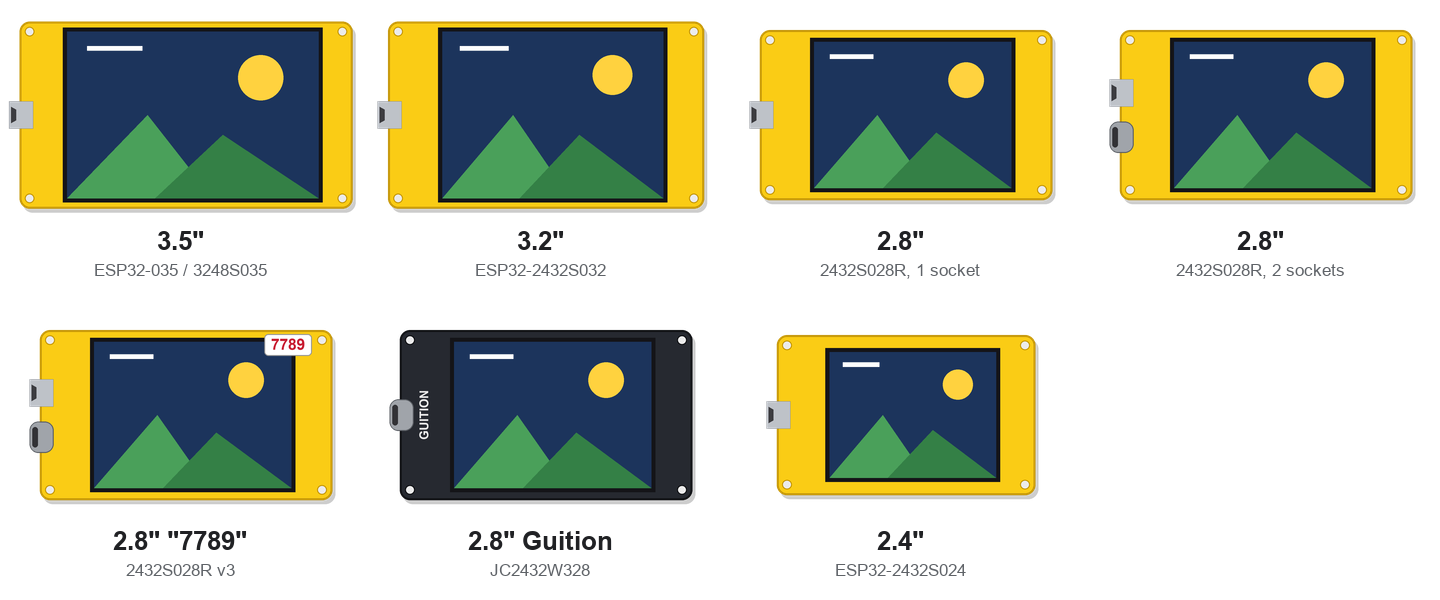
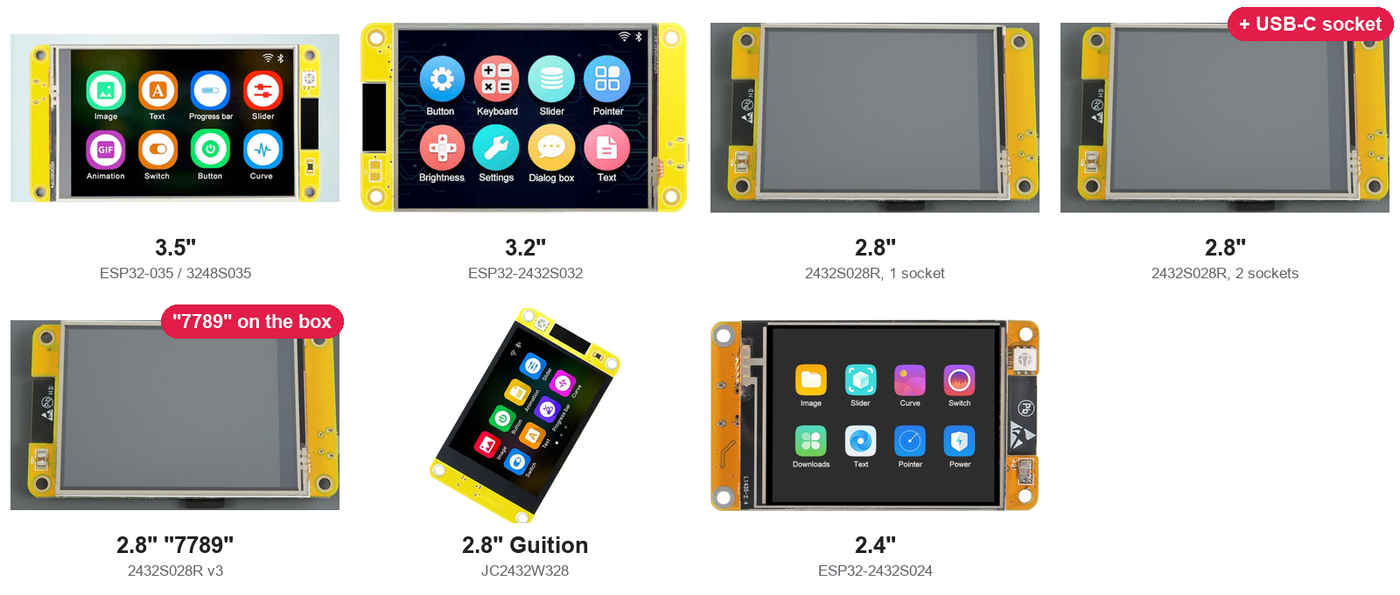
screen-mirror site: real product photos in the board picker
Replace the drawn boards with product photos (espboards.dev, Random Nerd
Tutorials, atomic14.com), trimmed and resized by make_board_pictures.py,
with a badge on the two 2.8" variants that look the same from the front.
The README chart uses the same photos. Credits on the page and README.

diff --git a/docs/index.html b/docs/index.html
@@ -120,30 +120,30 @@
         <button type="button" class="nav prev" aria-label="Previous boards">‹</button>
         <div class="boards" id="boards" role="radiogroup" aria-label="Board">
           <label class="board-card"><input type="radio" name="board" value="screen-mirror" checked>
-            <img src="boards/screen-mirror.png" alt="" width="180" height="115" loading="lazy">
+            <img src="boards/screen-mirror.jpg" alt="" width="180" height="115" loading="lazy">
             <b>3.5" screen</b><span class="small">1 USB socket · the biggest</span><span class="model">ESP32-035 · ESP32-3248S035</span></label>
           <label class="board-card"><input type="radio" name="board" value="screen-mirror-32">
-            <img src="boards/screen-mirror-32.png" alt="" width="180" height="115" loading="lazy">
+            <img src="boards/screen-mirror-32.jpg" alt="" width="180" height="115" loading="lazy">
             <b>3.2" screen</b><span class="small">1 USB socket</span><span class="model">ESP32-2432S032</span></label>
           <label class="board-card"><input type="radio" name="board" value="screen-mirror-28">
-            <img src="boards/screen-mirror-28.png" alt="" width="180" height="115" loading="lazy">
+            <img src="boards/screen-mirror-28.jpg" alt="" width="180" height="115" loading="lazy">
             <b>2.8" screen</b><span class="small">1 micro-USB socket · the most common</span><span class="model">ESP32-2432S028R</span></label>
           <label class="board-card"><input type="radio" name="board" value="screen-mirror-28-2usb">
-            <img src="boards/screen-mirror-28-2usb.png" alt="" width="180" height="115" loading="lazy">
+            <img src="boards/screen-mirror-28-2usb.jpg" alt="" width="180" height="115" loading="lazy">
             <b>2.8" screen, 2 sockets</b><span class="small">micro-USB + USB-C</span><span class="model">ESP32-2432S028R (newer)</span></label>
           <label class="board-card"><input type="radio" name="board" value="screen-mirror-28-st7789">
-            <img src="boards/screen-mirror-28-st7789.png" alt="" width="180" height="115" loading="lazy">
+            <img src="boards/screen-mirror-28-st7789.jpg" alt="" width="180" height="115" loading="lazy">
             <b>2.8" screen, "7789"</b><span class="small">"7789" on the box or a sticker</span><span class="model">ESP32-2432S028R v3</span></label>
           <label class="board-card"><input type="radio" name="board" value="screen-mirror-jc2432w328">
-            <img src="boards/screen-mirror-jc2432w328.png" alt="" width="180" height="115" loading="lazy">
+            <img src="boards/screen-mirror-jc2432w328.jpg" alt="" width="180" height="115" loading="lazy">
             <b>2.8" Guition</b><span class="small">"GUITION" printed on the board</span><span class="model">JC2432W328</span></label>
           <label class="board-card"><input type="radio" name="board" value="screen-mirror-24">
-            <img src="boards/screen-mirror-24.png" alt="" width="180" height="115" loading="lazy">
+            <img src="boards/screen-mirror-24.jpg" alt="" width="180" height="115" loading="lazy">
             <b>2.4" screen</b><span class="small">1 USB socket · the smallest</span><span class="model">ESP32-2432S024</span></label>
         </div>
         <button type="button" class="nav next" aria-label="More boards">›</button>
       </div>
-      <p class="small">Not sure? The model number is printed on the back of the board. The screen stays
+      <p class="small">Board photos: espboards.dev, Random Nerd Tutorials, atomic14.com. Not sure? The model number is printed on the back of the board. The screen stays
         black after installing? Try the next 2.8" choice. Colours look wrong? Use the
         <b>Fix colours</b> button in step 3.</p>
       <p>Plug the board into the computer with a USB cable. Click the button, pick your board from the list, then

diff --git a/examples/screen-mirror/tools/make_board_pictures.py b/examples/screen-mirror/tools/make_board_pictures.py
@@ -1,25 +1,38 @@
 #!/usr/bin/env python3
-"""Draw one picture per supported board for the website's board picker (docs/boards/<id>.png).
+"""Board pictures for the website's board picker (docs/boards/<id>.jpg) and the README chart
+(docs/guide/g00-which-board.png), made from real product photos.
 
-Drawings, not photos (product photos belong to their sellers). Each one shows what a child can
-check on the real board: how big the screen is (drawn to the same scale for every board), how
-many USB sockets there are and what kind, and stickers or printing ("7789", "GUITION").
-Sizes are approximate (board and screen outlines in millimetres from sellers' listings).
+The photos belong to the sellers / sites listed in PHOTOS (used, with the project owner's OK, so
+children can recognise their board). Two 2.8" variants look the same from the front as the
+original, so their pictures get a small badge for the thing that tells them apart.
 
-  python3 examples/screen-mirror/tools/make_board_pictures.py
+  python3 examples/screen-mirror/tools/make_board_pictures.py     (downloads, then draws)
 """
+import io
 import os
-from PIL import Image, ImageDraw, ImageFont
+import urllib.request
+from PIL import Image, ImageChops, ImageDraw, ImageFont
 
 HERE = os.path.dirname(os.path.abspath(__file__))
 OUT = os.path.join(HERE, "..", "..", "..", "docs", "boards")
+CHART = os.path.join(HERE, "..", "docs", "guide", "g00-which-board.png")
 FONTS = "/System/Library/Fonts/Supplemental/"
-SS = 4             # supersampling
-MM = 3.4           # pixels per millimetre in the final picture (same for every board)
-W, H = 360, 230    # final picture size
+W, H = 400, 270
 
-YELLOW, YELLOW_EDGE = (250, 204, 21), (196, 150, 6)
-DARK, DARK_EDGE = (38, 41, 48), (14, 15, 18)
+R28 = "https://i0.wp.com/randomnerdtutorials.com/wp-content/uploads/2024/03/ESP32-Cheap-Yellow-Display-CYD-Board-ESP32-2432S028R-front.jpg"
+PHOTOS = {   # website id: (photo URL, badge)
+    "screen-mirror": ("https://cdn.espboards.net/boards/cyd-esp32-3248s035/cover-600.png", None),
+    "screen-mirror-32": ("https://cdn.espboards.net/boards/cyd-esp32-2432s032/cover-600.png", None),
+    "screen-mirror-28": (R28, None),
+    "screen-mirror-28-2usb": (R28, "+ USB-C socket"),
+    "screen-mirror-28-st7789": (R28, '"7789" on the box'),
+    "screen-mirror-jc2432w328": ("https://www.atomic14.com/esp32/assets/boards/guition-jc2432w328.webp", None),
+    "screen-mirror-24": ("https://cdn.espboards.net/boards/cyd-esp32-2432s024/cover-600.png", None),
+}
+CHART_ROWS = [("screen-mirror", '3.5"', "ESP32-035 / 3248S035"), ("screen-mirror-32", '3.2"', "ESP32-2432S032"),
+              ("screen-mirror-28", '2.8"', "2432S028R, 1 socket"), ("screen-mirror-28-2usb", '2.8"', "2432S028R, 2 sockets"),
+              ("screen-mirror-28-st7789", '2.8" "7789"', "2432S028R v3"), ("screen-mirror-jc2432w328", '2.8" Guition', "JC2432W328"),
+              ("screen-mirror-24", '2.4"', "ESP32-2432S024")]
 
 
 def font(size, bold=True):
@@ -29,88 +42,52 @@ def font(size, bold=True):
         return ImageFont.load_default()
 
 
-def board(name, board_mm, screen_mm, sockets, pcb="yellow", sticker=None, printed=None):
-    im = Image.new("RGBA", (W * SS, H * SS), (0, 0, 0, 0))
-    d = ImageDraw.Draw(im)
-    s = MM * SS
-    bw, bh = board_mm[0] * s, board_mm[1] * s
-    x0, y0 = (W * SS - bw) / 2 + 6 * SS, (H * SS - bh) / 2
-    fill, edge = (YELLOW, YELLOW_EDGE) if pcb == "yellow" else (DARK, DARK_EDGE)
-
-    # shadow, board, mounting holes
-    d.rounded_rectangle([x0 + 3 * SS, y0 + 4 * SS, x0 + bw + 3 * SS, y0 + bh + 4 * SS], radius=3 * s, fill=(0, 0, 0, 50))
-    d.rounded_rectangle([x0, y0, x0 + bw, y0 + bh], radius=3 * s, fill=fill, outline=edge, width=2 * SS)
-    for hx, hy in ((x0 + 3 * s, y0 + 3 * s), (x0 + bw - 3 * s, y0 + 3 * s), (x0 + 3 * s, y0 + bh - 3 * s), (x0 + bw - 3 * s, y0 + bh - 3 * s)):
-        d.ellipse([hx - 1.4 * s, hy - 1.4 * s, hx + 1.4 * s, hy + 1.4 * s], fill=(235, 235, 235), outline=edge, width=SS)
-
-    # screen: dark glass with a little picture so it reads as a screen
-    sw, sh = screen_mm[0] * s, screen_mm[1] * s
-    sx, sy = x0 + (bw - sw) / 2 + 2 * s, y0 + (bh - sh) / 2
-    d.rectangle([sx - 1.2 * s, sy - 1.2 * s, sx + sw + 1.2 * s, sy + sh + 1.2 * s], fill=(20, 20, 24))
-    d.rectangle([sx, sy, sx + sw, sy + sh], fill=(28, 52, 92))
-    d.ellipse([sx + sw * 0.68, sy + sh * 0.14, sx + sw * 0.86, sy + sh * 0.14 + sw * 0.18], fill=(255, 210, 63))
-    d.polygon([(sx, sy + sh), (sx + sw * 0.32, sy + sh * 0.5), (sx + sw * 0.58, sy + sh)], fill=(74, 160, 90))
-    d.polygon([(sx + sw * 0.35, sy + sh), (sx + sw * 0.62, sy + sh * 0.62), (sx + sw, sy + sh)], fill=(52, 128, 70))
-    d.line([sx + sw * 0.08, sy + sh * 0.1, sx + sw * 0.3, sy + sh * 0.1], fill=(255, 255, 255, 120), width=int(1.4 * s))
-
-    # USB sockets on the left edge
-    cy = y0 + bh / 2
-    for i, kind in enumerate(sockets):
-        oy = cy + (i - (len(sockets) - 1) / 2) * 13 * s
-        if kind == "micro":   # trapezoid, silver
-            d.polygon([(x0 - 3 * s, oy - 4 * s), (x0 + 4 * s, oy - 4 * s), (x0 + 4 * s, oy + 4 * s), (x0 - 3 * s, oy + 4 * s)], fill=(190, 194, 200), outline=(110, 114, 120))
-            d.polygon([(x0 - 2.4 * s, oy - 2.4 * s), (x0 - 2.4 * s, oy + 2.4 * s), (x0 - 1 * s, oy + 1.6 * s), (x0 - 1 * s, oy - 1.6 * s)], fill=(60, 60, 64))
-        else:                 # USB-C: rounded pill, darker
-            d.rounded_rectangle([x0 - 3 * s, oy - 4.6 * s, x0 + 4 * s, oy + 4.6 * s], radius=2.6 * s, fill=(160, 164, 170), outline=(90, 94, 100), width=SS)
-            d.rounded_rectangle([x0 - 2.2 * s, oy - 3 * s, x0 - 0.6 * s, oy + 3 * s], radius=0.8 * s, fill=(50, 50, 54))
-
-    if printed:   # maker's name printed on the board, up the left margin
-        f = font(int(3.6 * s))
-        tw = int(d.textlength(printed, font=f))
-        t = Image.new("RGBA", (tw + 4, int(4.6 * s)), (0, 0, 0, 0))
-        ImageDraw.Draw(t).text((2, 0), printed, font=f, fill=(235, 235, 235))
-        t = t.rotate(90, expand=True)
-        im.alpha_composite(t, (int(x0 + 5.2 * s), int(cy - t.height / 2)))
-    if sticker:   # a white sticker with text
-        f = font(int(4.6 * s))
-        tw = d.textlength(sticker, font=f)
-        bx, by = x0 + bw - tw - 8 * s, y0 + 1.6 * s
-        d.rounded_rectangle([bx - 2 * s, by - 0.4 * s, bx + tw + 2 * s, by + 6 * s], radius=1.2 * s, fill="white", outline=(150, 150, 150), width=SS)
-        d.text((bx, by), sticker, font=f, fill=(200, 30, 50))
-
-    im = im.resize((W, H), Image.LANCZOS)
-    im.save(os.path.join(OUT, name + ".png"), optimize=True)
+def fetch(url, cache={}):
+    if url not in cache:
+        req = urllib.request.Request(url, headers={"User-Agent": "Mozilla/5.0"})
+        cache[url] = Image.open(io.BytesIO(urllib.request.urlopen(req, timeout=30).read())).convert("RGB")
+    return cache[url]
 
 
-def chart():
-    """All boards side by side with names: docs/guide/g00-which-board.png for the README."""
-    rows = [("screen-mirror", '3.5"', "ESP32-035 / 3248S035"), ("screen-mirror-32", '3.2"', "ESP32-2432S032"),
-            ("screen-mirror-28", '2.8"', "2432S028R, 1 socket"), ("screen-mirror-28-2usb", '2.8"', "2432S028R, 2 sockets"),
-            ("screen-mirror-28-st7789", '2.8" "7789"', "2432S028R v3"), ("screen-mirror-jc2432w328", '2.8" Guition', "JC2432W328"),
-            ("screen-mirror-24", '2.4"', "ESP32-2432S024")]
+def trim(im):
+    """Cut away plain white or grey margins around the product."""
+    bg = Image.new("RGB", im.size, im.getpixel((2, 2)))
+    box = ImageChops.difference(im, bg).convert("L").point(lambda v: 255 if v > 24 else 0).getbbox()
+    return im.crop(box) if box else im
+
+
+def card(name, url, badge):
+    im = trim(fetch(url))
+    im.thumbnail((W - 24, H - 24), Image.LANCZOS)
+    out = Image.new("RGB", (W, H), "white")
+    out.paste(im, ((W - im.width) // 2, (H - im.height) // 2))
+    if badge:
+        d = ImageDraw.Draw(out)
+        f = font(22)
+        tw = d.textlength(badge, font=f)
+        d.rounded_rectangle([W - tw - 34, 8, W - 8, 46], radius=19, fill=(225, 29, 72))
+        d.text((W - tw - 21, 15), badge, font=f, fill="white")
+    out.save(os.path.join(OUT, name + ".jpg"), quality=86, optimize=True)
+    return out
+
+
+def chart(cards):
     cw, ch = W, H + 70
     im = Image.new("RGB", (cw * 4, ch * 2), "white")
     d = ImageDraw.Draw(im)
-    for i, (name, big, model) in enumerate(rows):
+    for i, (name, big, model) in enumerate(CHART_ROWS):
         x, y = (i % 4) * cw, (i // 4) * ch
-        pic = Image.open(os.path.join(OUT, name + ".png"))
-        im.paste(pic, (x, y), pic)
+        im.paste(cards[name], (x, y))
         f = font(26)
-        d.text((x + (cw - d.textlength(big, font=f)) / 2, y + H - 4), big, font=f, fill=(32, 33, 36))
+        d.text((x + (cw - d.textlength(big, font=f)) / 2, y + H - 2), big, font=f, fill=(32, 33, 36))
         f = font(17, False)
-        d.text((x + (cw - d.textlength(model, font=f)) / 2, y + H + 30), model, font=f, fill=(95, 99, 104))
-    im.save(os.path.join(HERE, "..", "docs", "guide", "g00-which-board.png"), optimize=True)
+        d.text((x + (cw - d.textlength(model, font=f)) / 2, y + H + 32), model, font=f, fill=(95, 99, 104))
+    im.thumbnail((1400, 1000), Image.LANCZOS)
+    im.save(CHART, optimize=True)
 
 
 if __name__ == "__main__":
     os.makedirs(OUT, exist_ok=True)
-    #     website id                 board (mm)   screen (mm)  USB sockets
-    board("screen-mirror",            (98, 55),   (74, 49),    ["micro"])
-    board("screen-mirror-32",         (93, 55),   (65, 49),    ["micro"])
-    board("screen-mirror-28",         (86, 50),   (58, 43),    ["micro"])
-    board("screen-mirror-28-2usb",    (86, 50),   (58, 43),    ["micro", "c"])
-    board("screen-mirror-28-st7789",  (86, 50),   (58, 43),    ["micro", "c"], sticker="7789")
-    board("screen-mirror-jc2432w328", (86, 50),   (58, 43),    ["c"], pcb="dark", printed="GUITION")
-    board("screen-mirror-24",         (76, 47),   (49, 37),    ["micro"])
-    chart()
-    print("wrote", os.path.normpath(OUT))
+    cards = {name: card(name, url, badge) for name, (url, badge) in PHOTOS.items()}
+    chart(cards)
+    print("wrote", os.path.normpath(OUT), "and", os.path.normpath(CHART))

diff --git a/LESSONS.md b/LESSONS.md
@@ -107,11 +107,12 @@ Newest first. Add to it whenever something costs more than a few minutes.
   because some browsers only ask for that). Also check the tab isn't an old `localhost` copy.
 
 ### Board pictures
-- The picker shows drawings from `examples/screen-mirror/tools/make_board_pictures.py`, not
-  seller photos (those are copyrighted). They show what a child can check: screen size (same
-  scale for all), USB sockets, "7789" sticker, "GUITION" print. Online sources didn't confirm
-  PCB colours for every model (the Guition one is drawn dark). Real photos taken by us can
-  replace `docs/boards/<id>.png` with the same names.
+- The picker uses **real product photos** (the owner's choice, accepting they're the sellers'
+  photos): espboards.dev (3.5", 3.2", 2.4"), Random Nerd Tutorials (2.8"), atomic14.com
+  (Guition). `tools/make_board_pictures.py` downloads, trims and resizes them, adds a badge on
+  the two 2.8" variants that look identical from the front, and builds the README chart.
+- An earlier version used drawings; the user wanted real boards. The Guition board is yellow,
+  not dark as first drawn: don't guess board looks, check a photo.
 
 ### Speed expectations (so nobody promises 30 fps over Wi-Fi again)
 - USB at 2 Mbaud ≈ 200 KB/s: ~29 fps only while frames stay under ~7 KB (Smooth mode,

diff --git a/examples/screen-mirror/README.md b/examples/screen-mirror/README.md
@@ -28,7 +28,7 @@ You don't need to download or install anything on the computer. Everything happe
 
 Measure the screen from corner to corner, and count the USB sockets on the side of the board.
 
-<img src="docs/guide/g00-which-board.png" alt="Seven boards drawn to the same scale: 3.5 inch, 3.2 inch, three kinds of 2.8 inch, the Guition 2.8 inch, and 2.4 inch" width="100%">
+<img src="docs/guide/g00-which-board.png" alt="Photos of seven boards: 3.5 inch, 3.2 inch, three kinds of 2.8 inch, the Guition 2.8 inch, and 2.4 inch" width="100%">
 
 On the website the same pictures slide sideways: swipe (or click the arrows) and click your
 board. The model number is printed on the back of the board. Not sure? Pick the closest one: if the screen stays black, install again with the next
@@ -249,7 +249,8 @@ so they work on 480×320 and 320×240 panels alike. Problems we hit before and t
 
 The guide pictures: `g01`–`g07` are screenshots of the real page (taken with Playwright, red
 marks added in the page with CSS); `g00`, `g02b`, `g04b`, `g08` are drawn by
-`tools/make_guide_pictures.py`.
+`tools/make_guide_pictures.py`. Board photos (picker and chart) come from espboards.dev,
+Random Nerd Tutorials and atomic14.com via `tools/make_board_pictures.py`; they belong to their owners.
 
 ## 📶 Wi-Fi from a Mac
 
